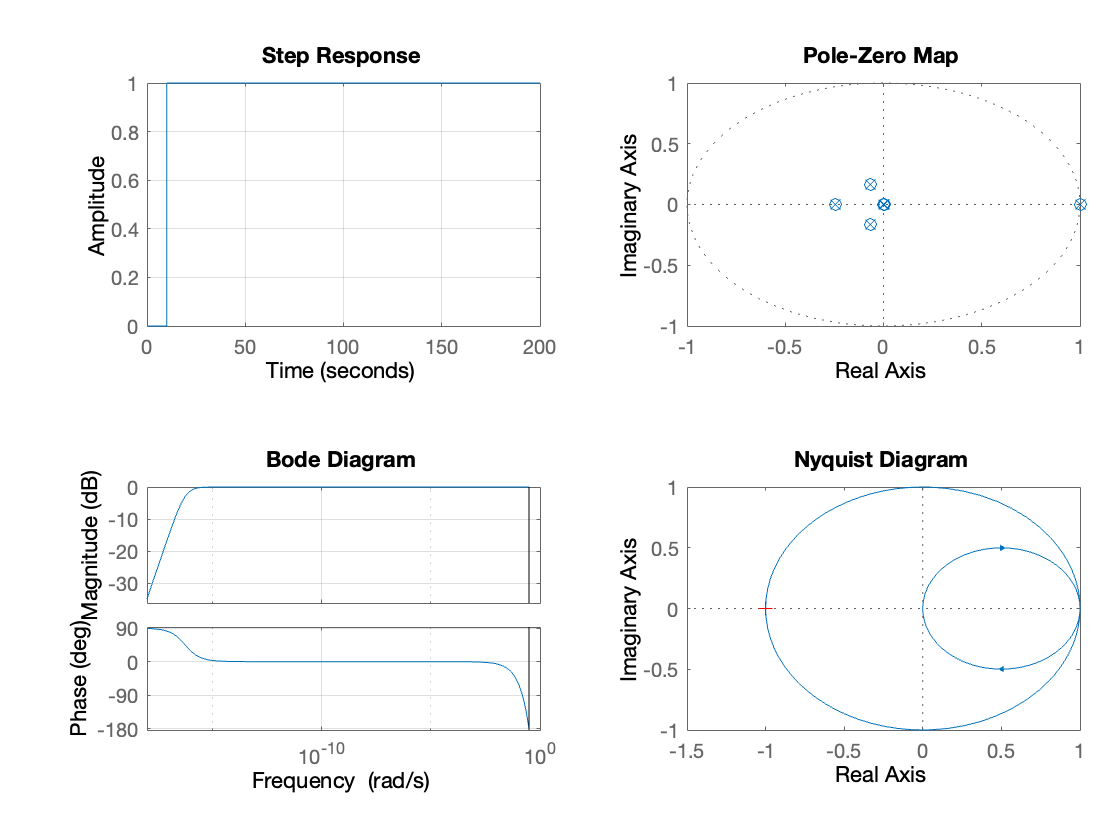
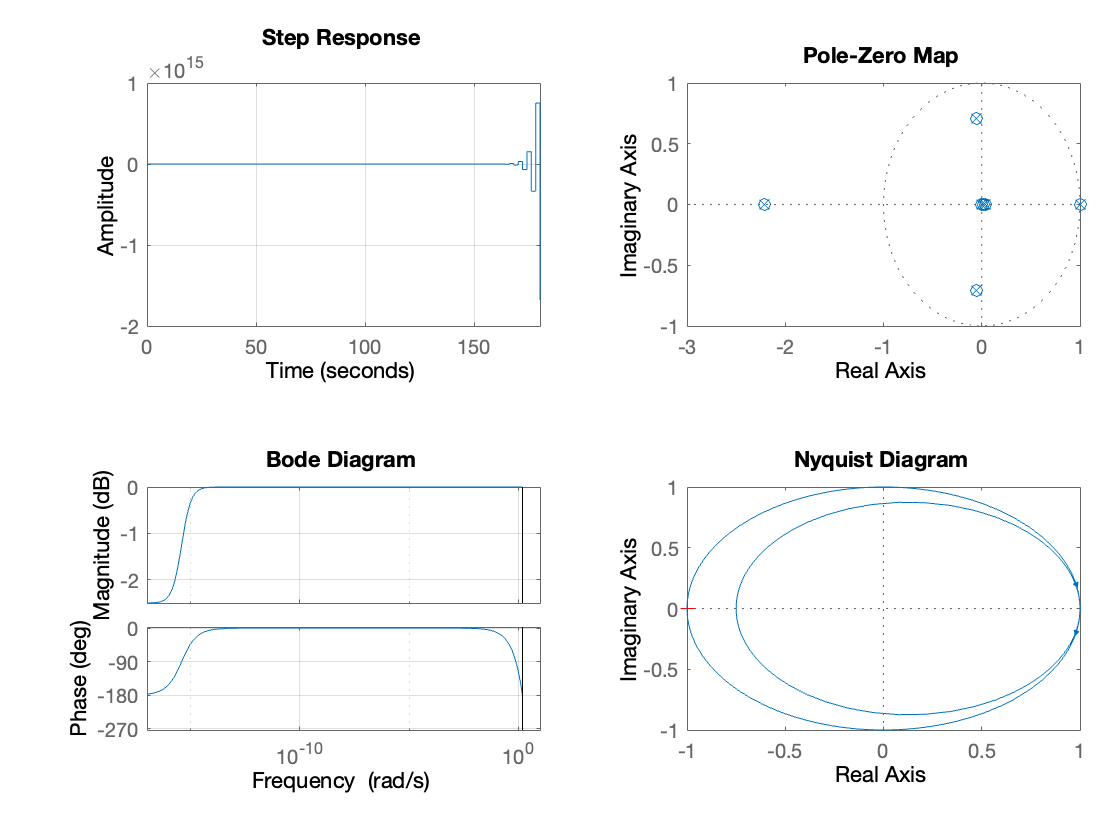
Updated T2

diff --git a/lab_1/source/lab_1.m b/lab_1/source/lab_1.m
@@ -7,7 +7,7 @@ den = [1, 2.462, 6.14, 11.45];
 
 T0 = 0.1;
 T1 = 1;
-T2 = 10;
+T2 = 2;
 
 Gp_continuous = tf(num, den);
 Gp_discrete_0 = c2d(Gp_continuous, T0);
@@ -51,7 +51,7 @@ G_ST_2 = (1 / Gp_discrete_2) * G_ST_R_2;
 % 
 % f6 = figure;
 % step(G_ST_2);
-% legend('T_2 = 10 sec');
+% legend('T_2 = 2 sec');
 % grid;
 
 
